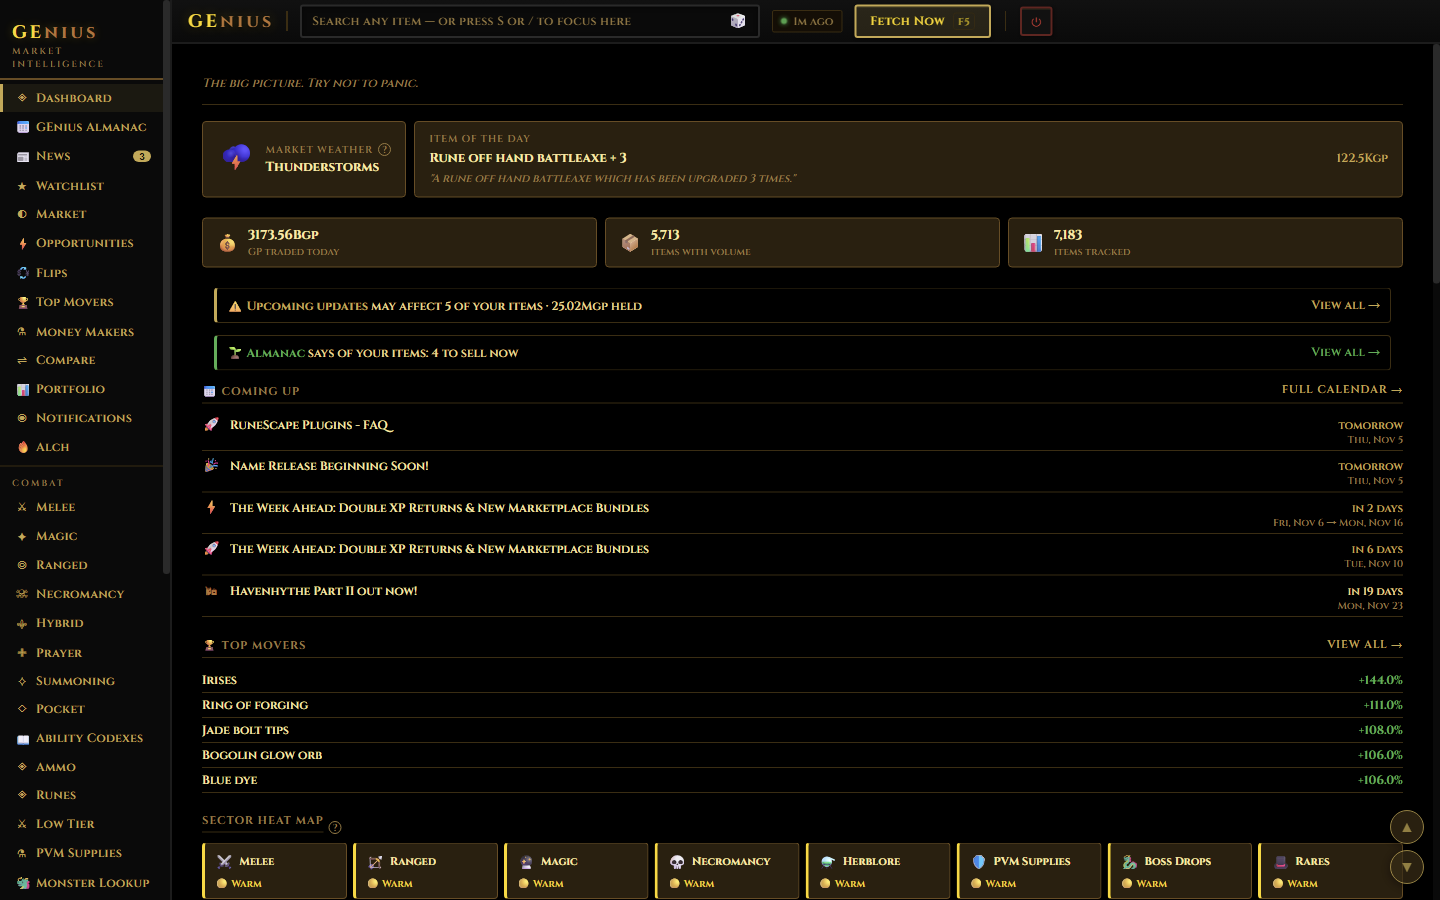
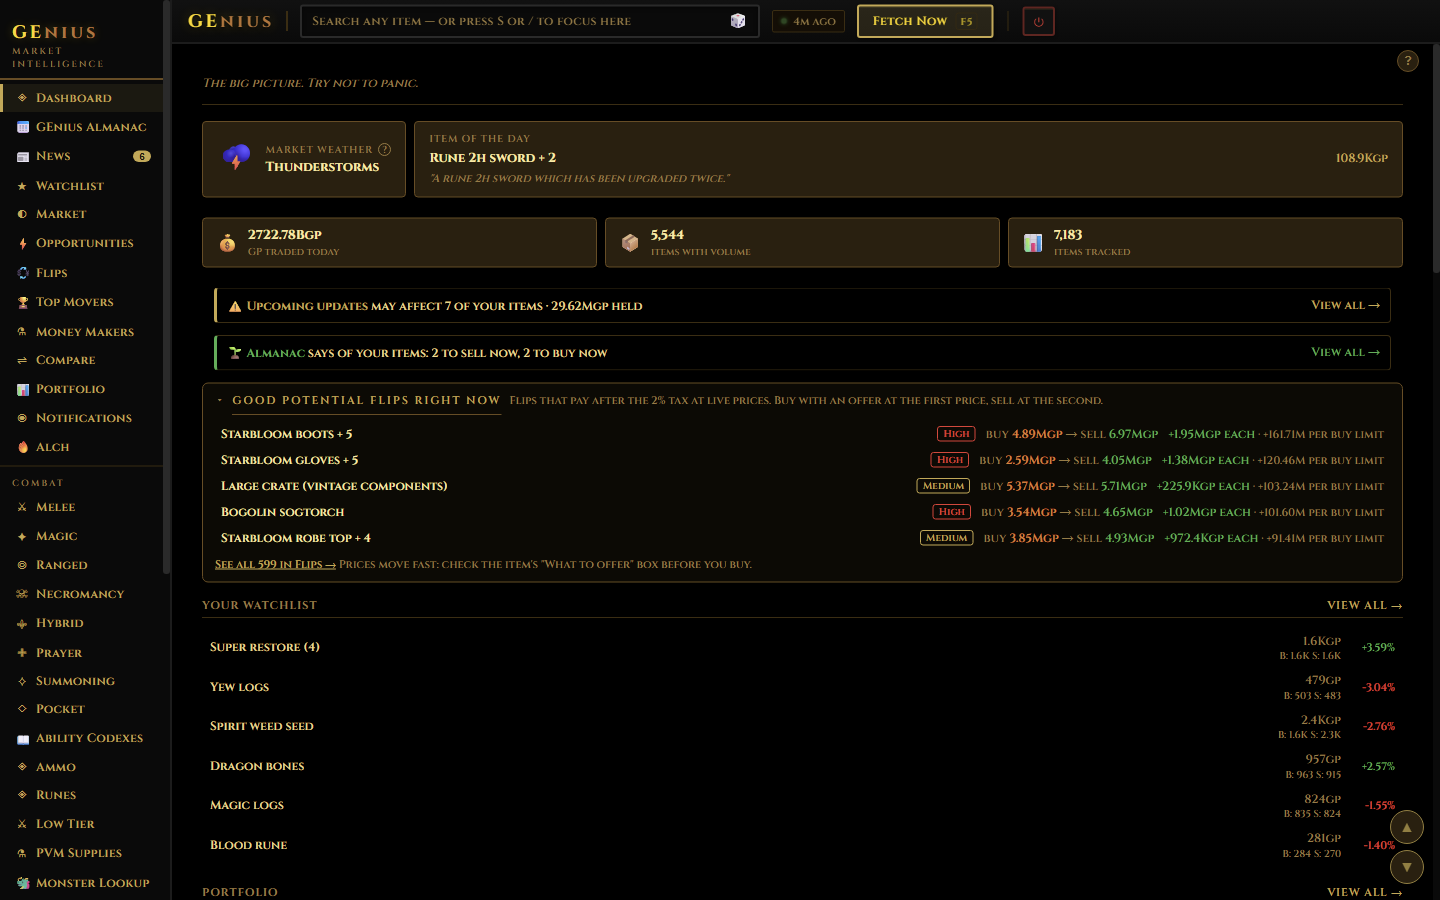
Site: new Dashboard, item panel, Flips and Money Makers screenshots in both themes (example data), updated captions; scripts/site-shots.js

diff --git a/scripts/site-shots.js b/scripts/site-shots.js
@@ -1,0 +1,106 @@
+/**
+ * Retakes GitHub Pages screenshots from a running TEST MODE window, with FAKE
+ * portfolio / watchlist / alerts / net worth so Ben's real holdings never go
+ * public. Both themes: Classic (saved as <name>-dark.png) and Dark (<name>-black.png).
+ *
+ *   npm run test-mode            (in another terminal; test mode copies real data)
+ *   node scripts/site-shots.js dashboard item flips money-makers
+ *   (then quit test mode: it rebuilds its data folder from the real one next launch)
+ *
+ * 1440x900, the size of the existing shots in docs/assets/shots/.
+ */
+const fs = require('fs'), path = require('path');
+const PORT = process.env.GENIUS_CDP_PORT || 9333;
+const OUT = path.join(__dirname, '..', 'docs', 'assets', 'shots');
+const TEST_DATA = path.join(process.env.APPDATA, 'GEnius-test', 'data');
+const wait = ms => new Promise(r => setTimeout(r, ms));
+
+// ── Fake data: ordinary items at believable prices, nothing of Ben's ──
+function fakeData(items) {
+  const by = n => items.find(i => i.name === n);
+  const now = Date.now(), day = 86400000;
+  const pos = [
+    ['Dragon bones', 20000, 0.93, 40], ['Blood rune', 60000, 0.97, 25], ['Magic logs', 15000, 1.06, 18],
+    ['Super restore (4)', 4000, 0.95, 12], ['Prayer renewal (4)', 2500, 1.04, 9], ['Black dragonhide', 8000, 0.9, 30],
+  ].filter(([n]) => by(n)).map(([n, q, f, ago], i) => {
+    const it = by(n), cost = Math.round((it.high || it.low) * f);
+    return { id: 'demo' + i, item_name: n.toLowerCase(), quantity: q, cost_basis: cost, target_price: null, target_profit_pct: null,
+      stop_loss: null, status: 'open', created_at: new Date(now - ago * day).toISOString(), date_opened: new Date(now - ago * day).toISOString().slice(0, 10) };
+  });
+  const portfolio = { positions: pos, tax_stats: { total_tax_paid: 0, trades_taxed: 0 }, buy_goals: [] };
+  const alerts = [
+    { id: 'demoa1', item_name: 'dragon bones', condition: 'below', price: 850, active: true },
+    { id: 'demoa2', item_name: 'magic logs', condition: 'above', price: Math.round((by('Magic logs')?.high || 1000) * 1.1), active: true },
+    { id: 'demoa3', item_name: 'blood rune', condition: 'below', price: 240, active: true },
+  ];
+  const watch = ['Dragon bones', 'Magic logs', 'Blood rune', 'Super restore (4)', 'Yew logs', 'Uncut onyx', 'Gold bar', 'Spirit weed seed']
+    .map(n => by(n)?.id).filter(Boolean);
+  const cost = pos.reduce((a, p) => a + p.cost_basis * p.quantity, 0);
+  const netWorth = Array.from({ length: 45 }, (_, i) => {
+    const d = new Date(now - (44 - i) * day).toISOString().slice(0, 10);
+    return { date: d, value: Math.round(cost * (0.97 + 0.08 * i / 44 + 0.015 * Math.sin(i / 3))), cost };
+  });
+  return { portfolio, alerts, watch, netWorth };
+}
+
+(async () => {
+  const want = process.argv.slice(2);
+  const list = await (await fetch(`http://127.0.0.1:${PORT}/json`)).json();
+  const page = list.find(t => t.type === 'page');
+  let ws, id = 0; const pending = {};
+  const connect = async () => {
+    ws = new WebSocket(page.webSocketDebuggerUrl);
+    ws.onmessage = e => { const m = JSON.parse(e.data); if (m.id && pending[m.id]) { pending[m.id](m); delete pending[m.id]; } };
+    await new Promise(r => { ws.onopen = r; });
+  };
+  await connect();
+  const send = (method, params) => new Promise(r => { const i = ++id; pending[i] = r; ws.send(JSON.stringify({ id: i, method, params })); });
+  const js = async expr => { const r = await send('Runtime.evaluate', { returnByValue: true, awaitPromise: true, expression: `(async () => (${expr}))()` }); return r.result?.result?.value; };
+  const until = async (expr, ms = 60000) => { const t = Date.now(); while (Date.now() - t < ms) { if (await js(expr)) return true; await wait(500); } return false; };
+
+  // Fake data in the test copy (never the real folder).
+  const items = JSON.parse(fs.readFileSync(path.join(TEST_DATA, 'latest.json'), 'utf8')).items;
+  const F = fakeData(items);
+  if (!TEST_DATA.includes('GEnius-test')) throw new Error('refusing: not the test data folder');
+  fs.writeFileSync(path.join(TEST_DATA, 'portfolio.json'), JSON.stringify(F.portfolio, null, 2));
+  fs.writeFileSync(path.join(TEST_DATA, 'alerts.json'), JSON.stringify(F.alerts, null, 2));
+  fs.writeFileSync(path.join(TEST_DATA, 'net_worth.json'), JSON.stringify(F.netWorth));
+  await js(`window.genius.setWatchlist(${JSON.stringify(F.watch)})`);
+  await js(`window.genius.testSeedInbox && window.genius.testSeedInbox([])`);
+
+  await send('Emulation.setDeviceMetricsOverride', { width: 1440, height: 900, deviceScaleFactor: 1, mobile: false });
+  const SHOTS = {
+    'dashboard': `window.__geniusTest.goto('dashboard')`,
+    'flips': `window.__geniusTest.goto('flips')`,
+    'item': `(window.__geniusTest.goto('market'), new Promise(r => setTimeout(r, 1500)).then(() => window.__geniusTest.openItem('Dragon dart tip')))`,
+    'money-makers': `window.__geniusTest.goto('money_makers')`,
+  };
+  for (const [theme, suffix] of [['dark', 'dark'], ['black', 'black']]) {
+    await js(`window.genius.getSettings().then(s => window.genius.saveSettings({...s, theme: '${theme}'}))`);
+    await js(`(localStorage.setItem('pageGuidesOff','true'), localStorage.removeItem('genius_dash_folds'), localStorage.removeItem('genius_goodnow_open'), location.reload(), true)`).catch(() => {});
+    await wait(2000);
+    try { ws.close(); } catch {}
+    await connect();
+    await send('Emulation.setDeviceMetricsOverride', { width: 1440, height: 900, deviceScaleFactor: 1, mobile: false });
+    await until(`!!window.__geniusTest && document.body.innerText.length > 3000`);
+    // The theme applies once settings have loaded after the reload; the first
+    // shot came out in the wrong theme with only 4s (2026-11-12).
+    await wait(10000);
+    for (const name of want) {
+      if (!SHOTS[name]) { console.log('unknown shot ' + name); continue; }
+      // Close any open item panel first (the item shot leaves one open).
+      if (name !== 'item') { await js(`([...document.querySelectorAll('button')].find(b => b.textContent.trim() === 'X')?.click(), true)`); await wait(400); }
+      await js(SHOTS[name]);
+      await wait(name === 'flips' ? 1000 : 3500);
+      if (name === 'flips') await until(`!document.body.innerText.includes('Still working out risk') && [...document.querySelectorAll('button')].some(b => /^Low risk \\([1-9]/.test(b.textContent))`, 120000), await wait(1500);
+      await js(`(document.querySelector('.content').scrollTop = 0, true)`);
+      await wait(600);
+      const shot = await send('Page.captureScreenshot', { format: 'png' });
+      const file = path.join(OUT, `${name}-${suffix}.png`);
+      fs.writeFileSync(file, Buffer.from(shot.result.data, 'base64'));
+      console.log('saved', file);
+    }
+  }
+  await send('Emulation.clearDeviceMetricsOverride', {});
+  process.exit(0);
+})().catch(e => { console.log('ERROR:', e.message); process.exit(1); });

diff --git a/docs/index.html b/docs/index.html
@@ -401,8 +401,8 @@
       <h3 class="shot-group">Market overview</h3>
       <div class="shot">
         <figure>
-          <img loading="lazy" src="assets/shots/dashboard-dark.png" data-shot="dashboard" alt="GEnius Dashboard with market weather, coming-up dates, top movers and sector heat map">
-          <figcaption>Dashboard: market weather, upcoming dates, top movers and the sector heat map at a glance.</figcaption>
+          <img loading="lazy" src="assets/shots/dashboard-dark.png" data-shot="dashboard" alt="GEnius Dashboard with market weather, update and Almanac alerts for your items, good potential flips, and your watchlist">
+          <figcaption>Dashboard: market weather, alerts about your own items, the best flips right now with their risk, and your watchlist. Fold away any section you don't use. Example data shown.</figcaption>
         </figure>
       </div>
       <div class="shot">
@@ -432,8 +432,8 @@
       <h3 class="shot-group">Item research</h3>
       <div class="shot">
         <figure>
-          <img loading="lazy" src="assets/shots/item-dark.png" data-shot="item" alt="GEnius item panel with a price chart for Dragon dart tip">
-          <figcaption>Item panel: chart analysis that shows its own track record and marks weak readings as Weak. Example watchlist shown.</figcaption>
+          <img loading="lazy" src="assets/shots/item-dark.png" data-shot="item" alt="GEnius item panel for Dragon dart tip with a What to offer box">
+          <figcaption>Item panel: what to offer to buy or sell, whether flipping pays after tax, and chart analysis that shows its own track record.</figcaption>
         </figure>
       </div>
       <div class="shot">
@@ -457,8 +457,8 @@
       </div>
       <div class="shot">
         <figure>
-          <img loading="lazy" src="assets/shots/flips-dark.png" data-shot="flips" alt="GEnius Flips tab">
-          <figcaption>Flips: live spreads after tax, with realistic profit based on actual volume.</figcaption>
+          <img loading="lazy" src="assets/shots/flips-dark.png" data-shot="flips" alt="GEnius Flips tab with Low, Medium and High risk tabs">
+          <figcaption>Flips: live spreads after tax, realistic profit based on actual volume, and Low / Medium / High risk tabs.</figcaption>
         </figure>
       </div>
       <div class="shot">
